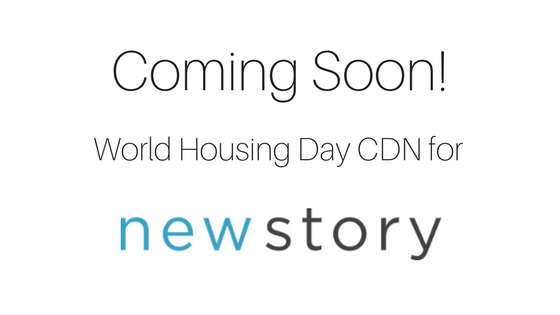
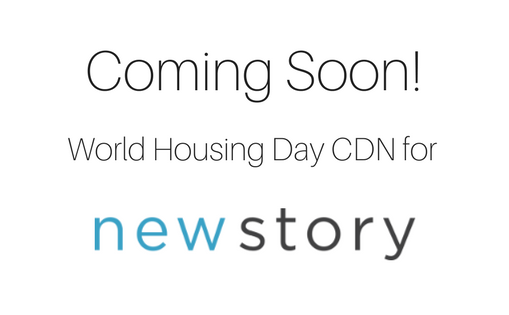
gets work pics to resize

diff --git a/stylesheets/desktop.css b/stylesheets/desktop.css
@@ -3,11 +3,18 @@
         min-height: 500px;
     }
     .splash-text {
-        top: 45px;
+        top: 50px;
         font-size: 30px;
         padding-left: 40px;
     }
 }
+
+@media only screen and (min-width: 775px) {
+    .splash-image {
+        min-height: 600px;
+    }
+}
+
 
 @media only screen and (min-width: 800px) { /*Here's a good breakpoint*/
     .navigation {
@@ -19,28 +26,32 @@
         height: 100%;
     }
     .splash-image {
-        min-height: 650px;
+        min-height: 700px;
+    }
+    .project-images {
+        flex-direction: row;
+        flex-wrap: wrap;
+        width: 100%
+    }
+    .project {
+        width: 45%;
+
+        margin: 20px;
+    }
+}
+
+@media only screen and (min-width: 850px) {
+    .splash-image {
+        min-height: 800px;
         background-size: cover;
-            -webkit-background-size: cover;
-            -moz-background-size: cover;
-            -o-background-size: cover;
+        -webkit-background-size: cover;
+        -moz-background-size: cover;
+        -o-background-size: cover;
     }
     .splash-text {
         top: 50px;
         font-size: 40px;
         padding-left: 45px;
-    }
-    .project-images {
-        display: flex;
-        flex-direction: row;
-        flex-wrap: wrap;
-        align-items: center;
-        width: 100%
-    }
-    .project {
-        width: 45%;
-        margin: 10px;
-
     }
 }
 

diff --git a/index.html b/index.html
@@ -96,9 +96,9 @@
     <div class="work" id="work">
         <h2 class="work-title">Featured Work</h2>
         <div class="project-images">
-            <img class="project dasher" src="https://j.gifs.com/qjPL5y.gif" alt="Dasher"/>          
-            <img class="project biolingual" src="https://j.gifs.com/66rGrR.gif" alt="BioLingual"/>     
-            <img class="project gas" src="https://j.gifs.com/j2GN4R.gif" alt="GAS Power Calculator"/>
+            <img class="project dasher" src="images/dasher.gif" alt="Dasher"/>
+            <img class="project biolingual"src="images/biolingual.gif" alt="BioLingual"/>
+            <img class="project gas" src="images/gaspc.gif" alt="GAS Power Calculator"/>
             <img class="project newstory" src="images/newstory.png" alt="Newstory">
         </div>
     </div>

diff --git a/stylesheets/main.css b/stylesheets/main.css
@@ -154,17 +154,26 @@ a {
     display: flex;
     flex-direction: column;
     align-items: center;
-    width: 95%
+    width: 95%;
+    /* height: 100%; */
 }
 .project {
     width: 95%;
-    margin: 10px;
+    margin: 10px; 
+}
+.dasher {
+
 }
 .biolingual {
     border: 1px solid black;
+    
+}
+.gas {
+ 
 }
 .newstory {
-    border: 1px solid black; 
+    border: 1px solid black;
+ 
 }
 
 /*************************************** CONTACT SECTION *************************************************/

diff --git a/stylesheets/tablet.css b/stylesheets/tablet.css
@@ -68,11 +68,15 @@
         font-size: 60px;
         padding: 10px;
     }
-    .project {
+    /* .project {
         width: 80%;
         margin: 10px;
 
     }
+    .project-box {
+        width: 100%;
+        height: 100%;
+    } */
 
 }
 @media only screen and (min-width: 700px) { /*Here's a good breakpoint*/
